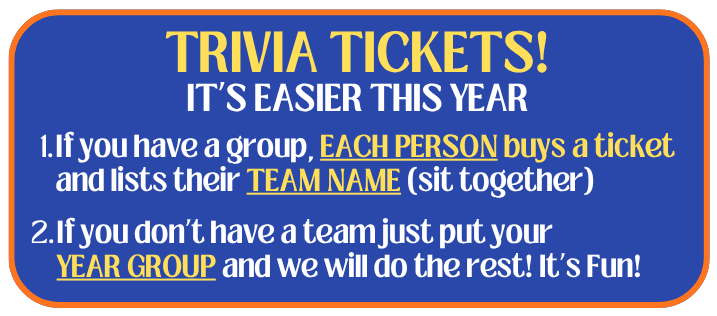
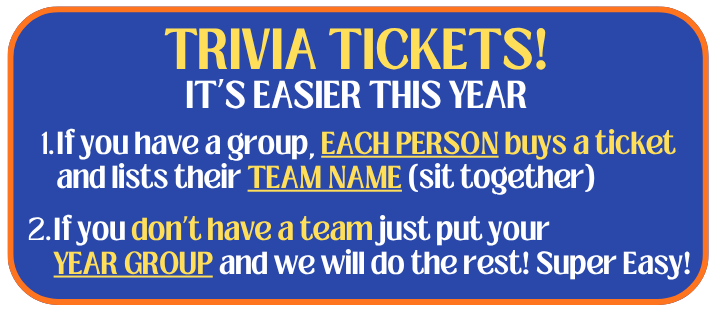
Update trivia tickets instructions graphic (v2: Super Easy) + cache-bust

Changed region(s): [[0.0, 0.0, 1.0, 0.9745], [0.2148, 0.086, 0.7671, 0.3726]]

diff --git a/index.html b/index.html
@@ -128,7 +128,7 @@
 
   <!-- HUGE CLICK HERE -->
   <section class="cta">
-    <img class="tixinfo" src="assets/trivia-tickets-info.png" alt="Trivia Tickets — it's easier this year. 1. If you have a group, each person buys a ticket and lists their team name so you sit together. 2. If you don't have a team, just put your year group and we'll do the rest.">
+    <img class="tixinfo" src="assets/trivia-tickets-info.png?v=2" alt="Trivia Tickets — it's easier this year. 1. If you have a group, each person buys a ticket and lists their team name so you sit together. 2. If you don't have a team, just put your year group and we'll do the rest. Super easy.">
     <a class="bigcta" id="ticketsBtn" href="#" target="_blank" rel="noopener" aria-label="Click here for tickets (opens in new tab)">
       <img src="assets/webbutton.png" alt="Click here for tickets"
            onerror="this.replaceWith(Object.assign(document.createElement('span'),{textContent:'Get tickets \u2192',className:'txtlink'}))">